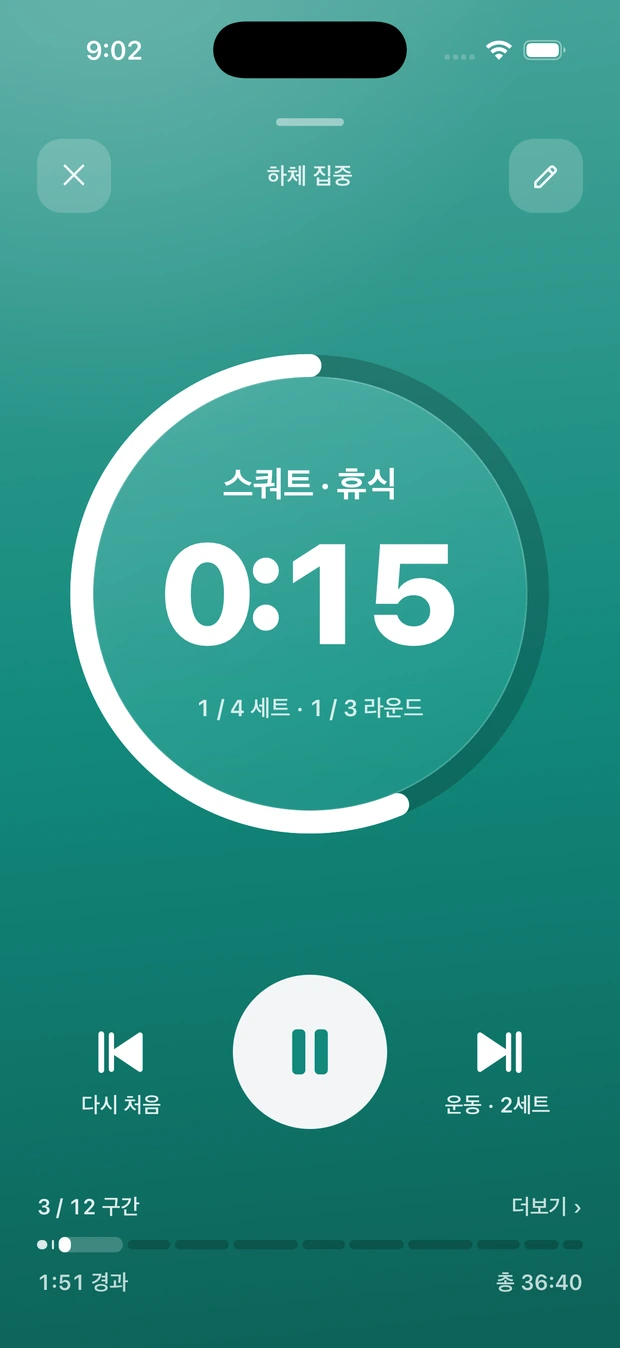
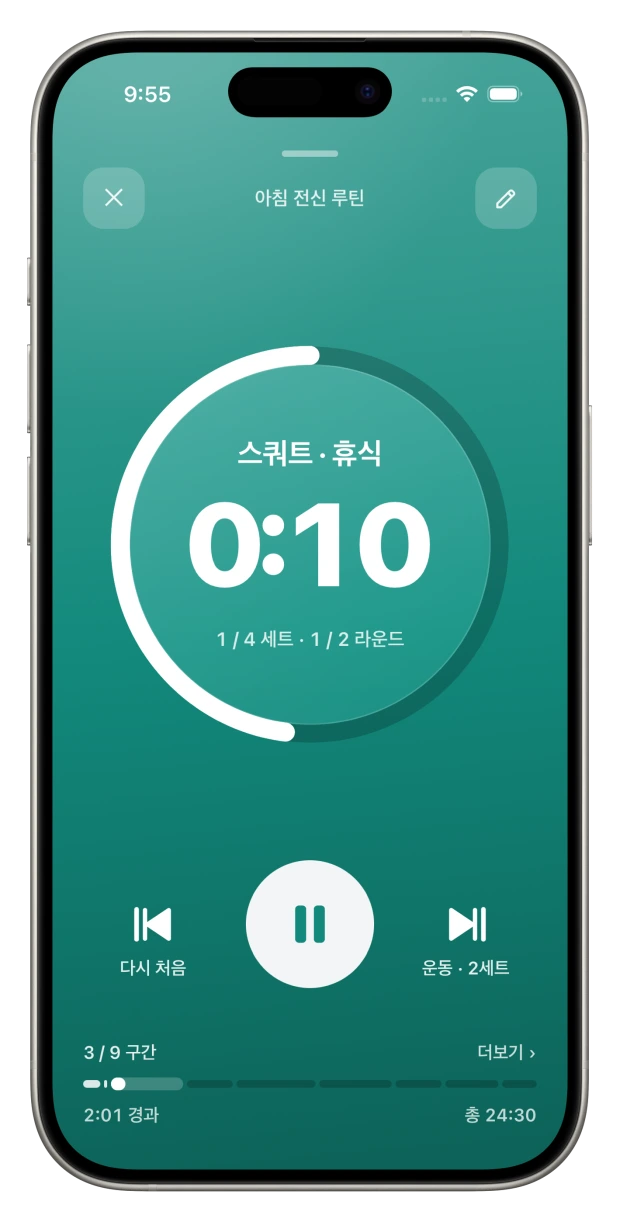
feat(landing): 히어로에 운동·휴식 두 장만 있어서 구간이 다섯 가지라는 게 안 보이던 문제
앱은 웜업·운동·휴식·종목 전환·쿨다운마다 화면 전체가 다른 색으로 물드는데,
페이지에는 빨강·초록 두 장만 나란히 있었다. "구간이 바뀌면 색이 바뀐다"는 문구를
증거 두 개로 받치고 있던 셈이다. 다섯 장을 옆으로 밀어 보는 카드 리스트로 바꿨다.

가운데 카드만 크고 밝은 것은 animation-timeline:view(inline)으로 스크롤 위치에
물려 둔 것이라 JS 없이도 움직인다. @supports 로 감쌌고, 못 읽는 브라우저에서는
크기가 같은 평범한 캐러셀이 된다.

옆 카드를 죽이는 데 opacity 를 쓰다 한 번 데였다. 등장 애니메이션이 카드의
opacity 를 쓰기 때문에 .in 이 붙는 순간 어둡기가 풀렸다. 밝기로 바꿨다.

첫·마지막 카드도 가운데 서게 좌우 패딩을 calc(50% - cw/2) 로 줬다. 퍼센트 기준이
부모 폭이라, 화면 끝까지 흘리려고 .deck 에 음수 마진을 주면 첫 카드가 그만큼
어긋난다. 그래서 흘리지 않았다.

기기 프레임이 그려진 목업을 그대로 620px WebP(q92, 알파 유지)로 줄여 썼다.
처음엔 프레임을 벗겨 CSS 베젤을 씌우려 했는데 목업을 만든 뜻을 버리는 짓이었다.
배경이 투명하니 그림자는 사각형 box-shadow 가 아니라 img 의 drop-shadow 로 낸다.

검증: 320·360·390·430·600·720·900·1280px 전부 documentElement.scrollWidth ==
clientWidth 이고(가로 스크롤 0), 본문 좌우 여백 최소 24px, 390×844 에서 CTA 아래
끝이 423px 로 첫 화면 안. 외부 요청 0건, 콘솔 에러 0건. .deck 은 상자 안에서만
747~1248px 넘친다. 첫 화면이 받는 양은 228KB → 303KB(카드 다섯 장 214KB).

diff --git a/docs/index.html b/docs/index.html
@@ -61,7 +61,8 @@
   --text:#F7F7F8; --sub:#9A9EA6; --dim:#6E7279;
   --line:rgba(255,255,255,0.09);
   --teal:#1FB3A1; --teal-t:#5FD8C6;
-  --work:#D32F3E; --rest:#12897C;
+  --warmup:#C96A1E; --work:#D32F3E; --rest:#12897C;
+  --switch:#2B5BD7; --cool:#3E6B8F;
 }
 *{box-sizing:border-box}
 html{-webkit-text-size-adjust:100%}
@@ -109,18 +110,71 @@ h1{margin:18px auto 0;font-size:32px;max-width:11.5em}
 .fine{margin:14px 0 0;color:var(--dim);font-size:13px;letter-spacing:-0.01em}
 
 /* ---- hero phones ---- */
-.stage{position:relative;margin-top:44px;padding-bottom:8px}
+.stage{position:relative;margin-top:40px;padding-bottom:8px}
 .stage::before{
-  content:"";position:absolute;inset:12% -10% -30% -10%;pointer-events:none;
+  content:"";position:absolute;inset:10% -12% -26% -12%;pointer-events:none;
   background:
-    radial-gradient(42% 46% at 29% 42%, rgba(211,47,62,0.30), rgba(211,47,62,0) 70%),
-    radial-gradient(42% 46% at 71% 42%, rgba(18,137,124,0.34), rgba(18,137,124,0) 70%);
+    radial-gradient(30% 42% at 14% 52%, rgba(201,106,30,0.26), rgba(201,106,30,0) 70%),
+    radial-gradient(34% 46% at 35% 44%, rgba(211,47,62,0.30), rgba(211,47,62,0) 70%),
+    radial-gradient(36% 48% at 55% 42%, rgba(18,137,124,0.34), rgba(18,137,124,0) 70%),
+    radial-gradient(32% 44% at 76% 46%, rgba(43,91,215,0.26), rgba(43,91,215,0) 70%),
+    radial-gradient(28% 40% at 92% 54%, rgba(62,107,143,0.24), rgba(62,107,143,0) 70%);
   filter:blur(6px);
 }
-.pair{
-  position:relative;display:grid;grid-template-columns:1fr 1fr;gap:14px;
-  max-width:560px;margin:0 auto;
+
+/* 다섯 구간을 옆으로 밀어 보는 카드 리스트.
+   가로 스크롤은 이 상자 안에서만 일어난다(페이지가 가로로 밀리면 안 된다).
+   좌우 패딩은 첫·마지막 카드도 가운데에 설 수 있게 잡은 것이라,
+   퍼센트 기준이 어긋나지 않도록 .deck 에 음수 마진을 주지 않는다. */
+.deck{
+  --cw:clamp(160px, 54vw, 224px);
+  position:relative;display:flex;gap:14px;
+  padding:10px calc(50% - var(--cw) / 2) 4px;
+  overflow-x:auto;overscroll-behavior-x:contain;
+  scroll-snap-type:x mandatory;scroll-behavior:smooth;
+  scrollbar-width:none;-ms-overflow-style:none;
+  /* 옆 카드가 상자 끝에서 칼로 자른 듯 끊기지 않게 좌우를 흐린다 */
+  -webkit-mask-image:linear-gradient(to right,transparent 0,#000 9%,#000 91%,transparent 100%);
+  mask-image:linear-gradient(to right,transparent 0,#000 9%,#000 91%,transparent 100%);
 }
+.deck::-webkit-scrollbar{display:none}
+.deck:focus-visible{outline:2px solid var(--teal-t);outline-offset:6px;border-radius:12px}
+.card{
+  position:relative;flex:none;width:var(--cw);margin:0;
+  scroll-snap-align:center;transform-origin:50% 100%;
+}
+/* 기기 테두리가 이미지에 이미 그려져 있어 사각형 box-shadow 는 폰 밖으로 삐져나온다.
+   그림자는 실루엣을 따르는 drop-shadow 로, 구간 색 번짐은 뒤에 깔린 --tint 로 낸다. */
+.card::before{
+  content:"";position:absolute;inset:6% -12% -6%;z-index:-1;pointer-events:none;
+  background:radial-gradient(50% 46% at 50% 52%, var(--tint), rgba(0,0,0,0) 72%);
+  opacity:.5;filter:blur(10px);
+}
+.card img{width:100%;filter:drop-shadow(0 14px 26px rgba(0,0,0,0.55))}
+
+/* 가운데 카드만 똑바로 서고 옆 카드는 기울어 어두워진다. 스크롤 위치에 물린
+   애니메이션이라 JS 가 없어도 움직이고, 이걸 못 읽는 브라우저에서는 크기가
+   같은 평범한 캐러셀로 보인다(내용은 그대로 다 보인다).
+   transform·filter 를 none 으로 두면 보간이 끊기므로 항등값을 적어 준다. */
+@supports (animation-timeline:view()) {
+  .card{
+    animation:deckFocus linear both;
+    animation-timeline:view(inline);
+    animation-range:cover 0% cover 100%;
+  }
+  @keyframes deckFocus{
+    0%   {transform:rotate(-7deg) translateY(4%) scale(.84);filter:brightness(.68)}
+    50%  {transform:rotate(0deg) translateY(0) scale(1);filter:brightness(1)}
+    100% {transform:rotate(7deg) translateY(4%) scale(.84);filter:brightness(.68)}
+  }
+}
+
+.legend{
+  position:relative;display:flex;flex-wrap:wrap;justify-content:center;
+  gap:8px 16px;margin:22px 0 0;padding:0;list-style:none;
+  color:var(--sub);font-size:13.5px;
+}
+.legend li{display:inline-flex;align-items:center;gap:7px}
 .phone{
   margin:0;padding:7px;border-radius:38px;
   background:#0C0C10;border:1px solid rgba(255,255,255,0.14);
@@ -188,8 +242,9 @@ footer p{margin:0 0 5px}
   .hero{padding-top:88px}
   h1{font-size:46px}
   .lead{font-size:18px}
-  .stage{margin-top:56px}
-  .pair{gap:22px;max-width:620px}
+  .stage{margin-top:52px}
+  .deck{--cw:clamp(232px, 28vw, 292px);gap:20px}
+  .legend{font-size:14.5px;gap:8px 22px;margin-top:28px}
   .features{padding-top:128px}
   .sec-head h2{font-size:30px}
   .grid3{grid-template-columns:1fr 1fr 1fr;gap:36px}
@@ -206,11 +261,16 @@ footer p{margin:0 0 5px}
 .anim .rv{opacity:0;transform:translateY(18px);
   transition:opacity .72s cubic-bezier(.16,1,.3,1),transform .72s cubic-bezier(.16,1,.3,1)}
 .anim .rv.in{opacity:1;transform:none}
-.anim .stage .phone{transform:translateY(26px) scale(.985);opacity:0;
-  transition:opacity .8s cubic-bezier(.16,1,.3,1),transform .8s cubic-bezier(.16,1,.3,1)}
-.anim .stage .phone.in{opacity:1;transform:none}
+/* 덱 카드는 transform 으로 부채꼴을 만들어 두었으므로 등장에는 opacity 만 쓴다.
+   .rv 처럼 transform 을 건드리면 부채꼴이 풀린다. */
+.anim .deck .card{opacity:0;transition:opacity .8s cubic-bezier(.16,1,.3,1)}
+.anim .deck .card.in{opacity:1}
 @media (prefers-reduced-motion:reduce){
-  .anim .rv,.anim .stage .phone{opacity:1;transform:none;transition:none}
+  .anim .rv{opacity:1;transform:none;transition:none}
+  .anim .deck .card{opacity:1;transition:none}
+  /* 스크롤에 물린 확대·기울기도 움직임이다. 손대지 않은 모습으로 세워 둔다. */
+  .deck{scroll-behavior:auto}
+  .card{animation:none}
 }
 </style>
 <script>
@@ -231,16 +291,30 @@ if ('IntersectionObserver' in window &&
     <p class="fine">iOS · 한국어 · 영어 · 일본어 · 중국어</p>
 
     <div class="stage">
-      <div class="pair">
-        <figure class="phone">
-          <img src="./shot-work.webp" alt="운동 구간 — 화면 전체가 빨강" width="1206" height="2622">
-          <figcaption><span class="pdot" style="background:var(--work)"></span>운동</figcaption>
+      <div class="deck" tabindex="0" role="group" aria-label="구간별 화면 — 옆으로 밀어 봅니다">
+        <figure class="card" style="--tint:var(--warmup)">
+          <img src="./shot-warmup.webp" alt="웜업 구간 — 화면 전체가 주황" width="620" height="1345">
         </figure>
-        <figure class="phone">
-          <img src="./shot-rest.webp" alt="휴식 구간 — 같은 화면이 초록으로 바뀐다" width="1206" height="2622">
-          <figcaption><span class="pdot" style="background:var(--rest)"></span>휴식</figcaption>
+        <figure class="card" style="--tint:var(--work)">
+          <img src="./shot-work.webp" alt="운동 구간 — 화면 전체가 빨강" width="620" height="1345">
+        </figure>
+        <figure class="card" style="--tint:var(--rest)">
+          <img src="./shot-rest.webp" alt="휴식 구간 — 같은 화면이 청록으로 바뀐다" width="620" height="1345">
+        </figure>
+        <figure class="card" style="--tint:var(--switch)">
+          <img src="./shot-switch.webp" alt="종목 전환 구간 — 화면 전체가 파랑" width="620" height="1345">
+        </figure>
+        <figure class="card" style="--tint:var(--cool)">
+          <img src="./shot-cooldown.webp" alt="쿨다운 구간 — 화면 전체가 남청색" width="620" height="1345">
         </figure>
       </div>
+      <ul class="legend">
+        <li><span class="pdot" style="background:var(--warmup)"></span>웜업</li>
+        <li><span class="pdot" style="background:var(--work)"></span>운동</li>
+        <li><span class="pdot" style="background:var(--rest)"></span>휴식</li>
+        <li><span class="pdot" style="background:var(--switch)"></span>종목 전환</li>
+        <li><span class="pdot" style="background:var(--cool)"></span>쿨다운</li>
+      </ul>
       <p class="stage-cap">구간이 바뀌면 <strong>화면 전체 색이 바뀝니다.</strong><br>소리와 진동도 함께 울리니, 화면은 안 봐도 됩니다.</p>
     </div>
   </div>
@@ -325,7 +399,8 @@ if ('IntersectionObserver' in window &&
 
   var GROUPS = [
     ['.hero .lockup, .hero .badge, .hero h1, .hero .lead, .hero .cta, .hero .fine', 70],
-    ['.stage .phone', 130],
+    ['.deck .card', 110],
+    ['.legend', 0],
     ['.stage-cap', 0],
     ['.sec-head', 0],
     ['.grid3 > *', 90],
@@ -346,8 +421,8 @@ if ('IntersectionObserver' in window &&
   GROUPS.forEach(function (g) {
     var els = document.querySelectorAll(g[0]);
     Array.prototype.forEach.call(els, function (el, i) {
-      // .stage .phone 은 자기 전용 전환을 쓰므로 .rv 를 붙이지 않는다
-      if (!el.matches('.stage .phone')) el.classList.add('rv');
+      // 덱 카드는 부채꼴 transform 을 지키느라 자기 전용 전환을 쓴다
+      if (!el.matches('.deck .card')) el.classList.add('rv');
       if (g[1]) el.style.transitionDelay = (i * g[1]) + 'ms';
       io.observe(el);
     });
